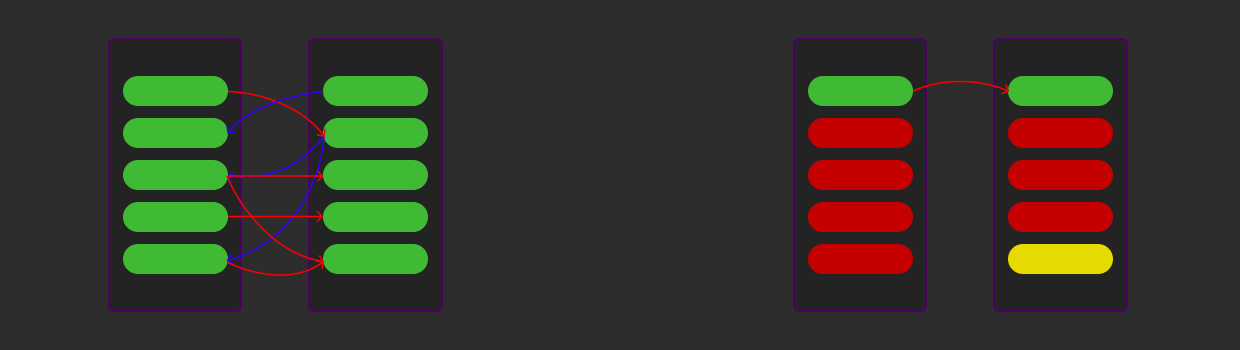
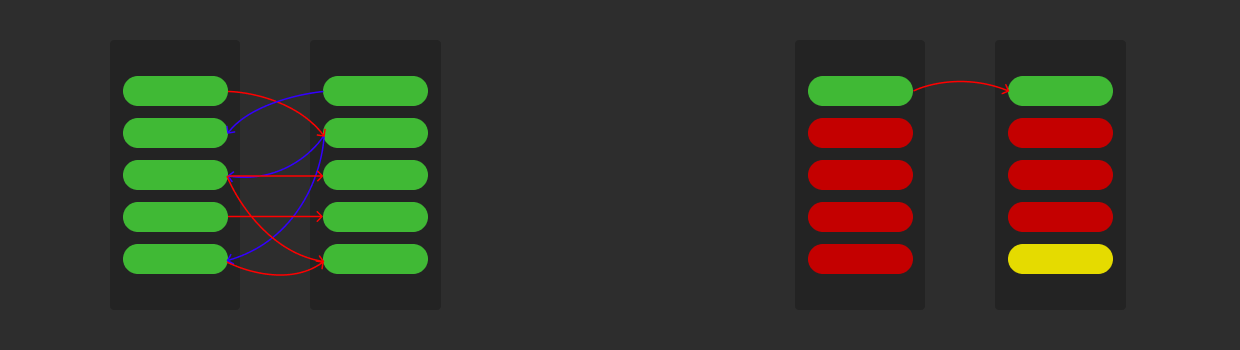
update images

diff --git a/Encapsulamento/Encapsulamento.md b/Encapsulamento/Encapsulamento.md
@@ -25,7 +25,7 @@ Encapsular código determina que seu uso seja mais fácil, e que não seja neces
 ## E o que são cápsulas?
 
 <p>
-    <img src="assets/ex02.jpg">
+    <img src="assets/ex02.png">
 </p>
 
 O próprio objeto é a cápsula. Lembrando que o próprio objeto é um agrupador, onde nele estão agrupados uma série de atributos e métodos. E o fato de agruparmos essas informações nos gera a possibilidade de podermos encapsular dados desse objeto para que isso não seja acessível a nenhum outro local do seu sistema. Isso diz respeito ao nível de segurança do seu código.
